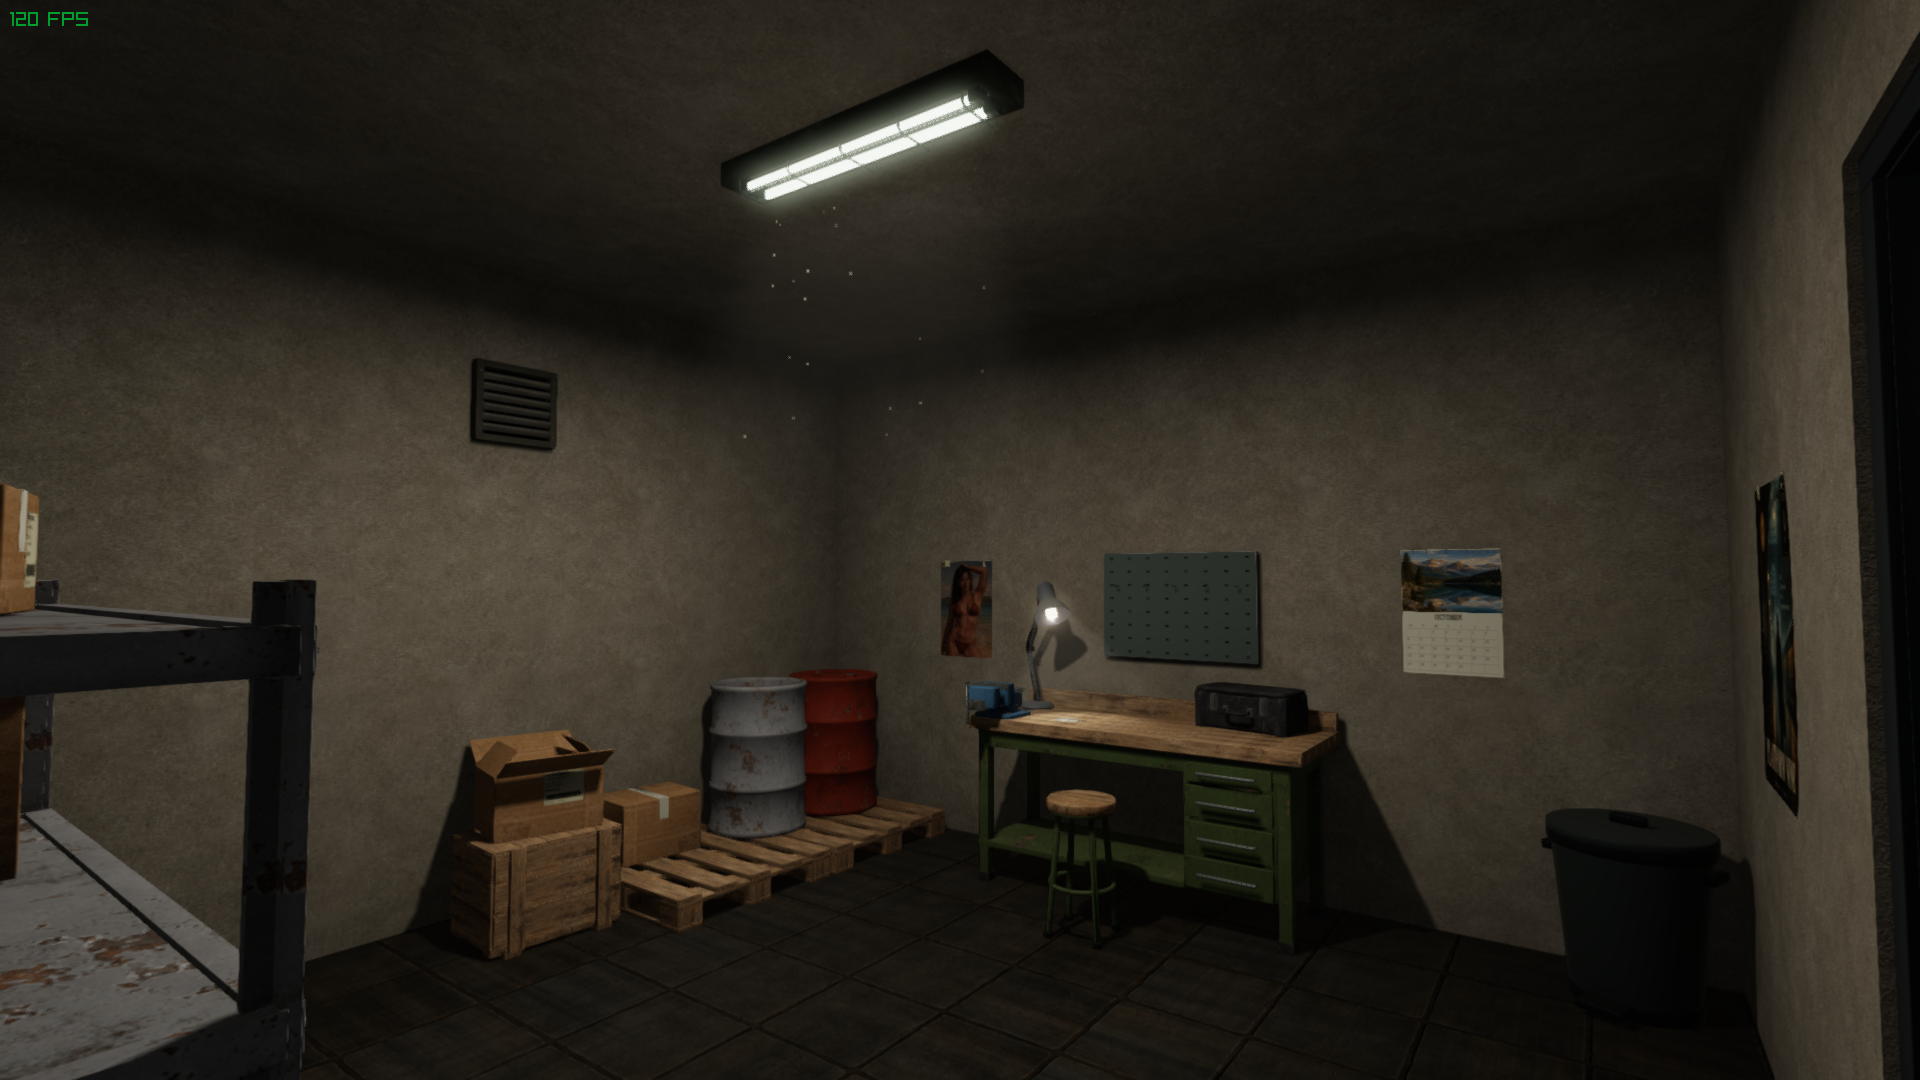
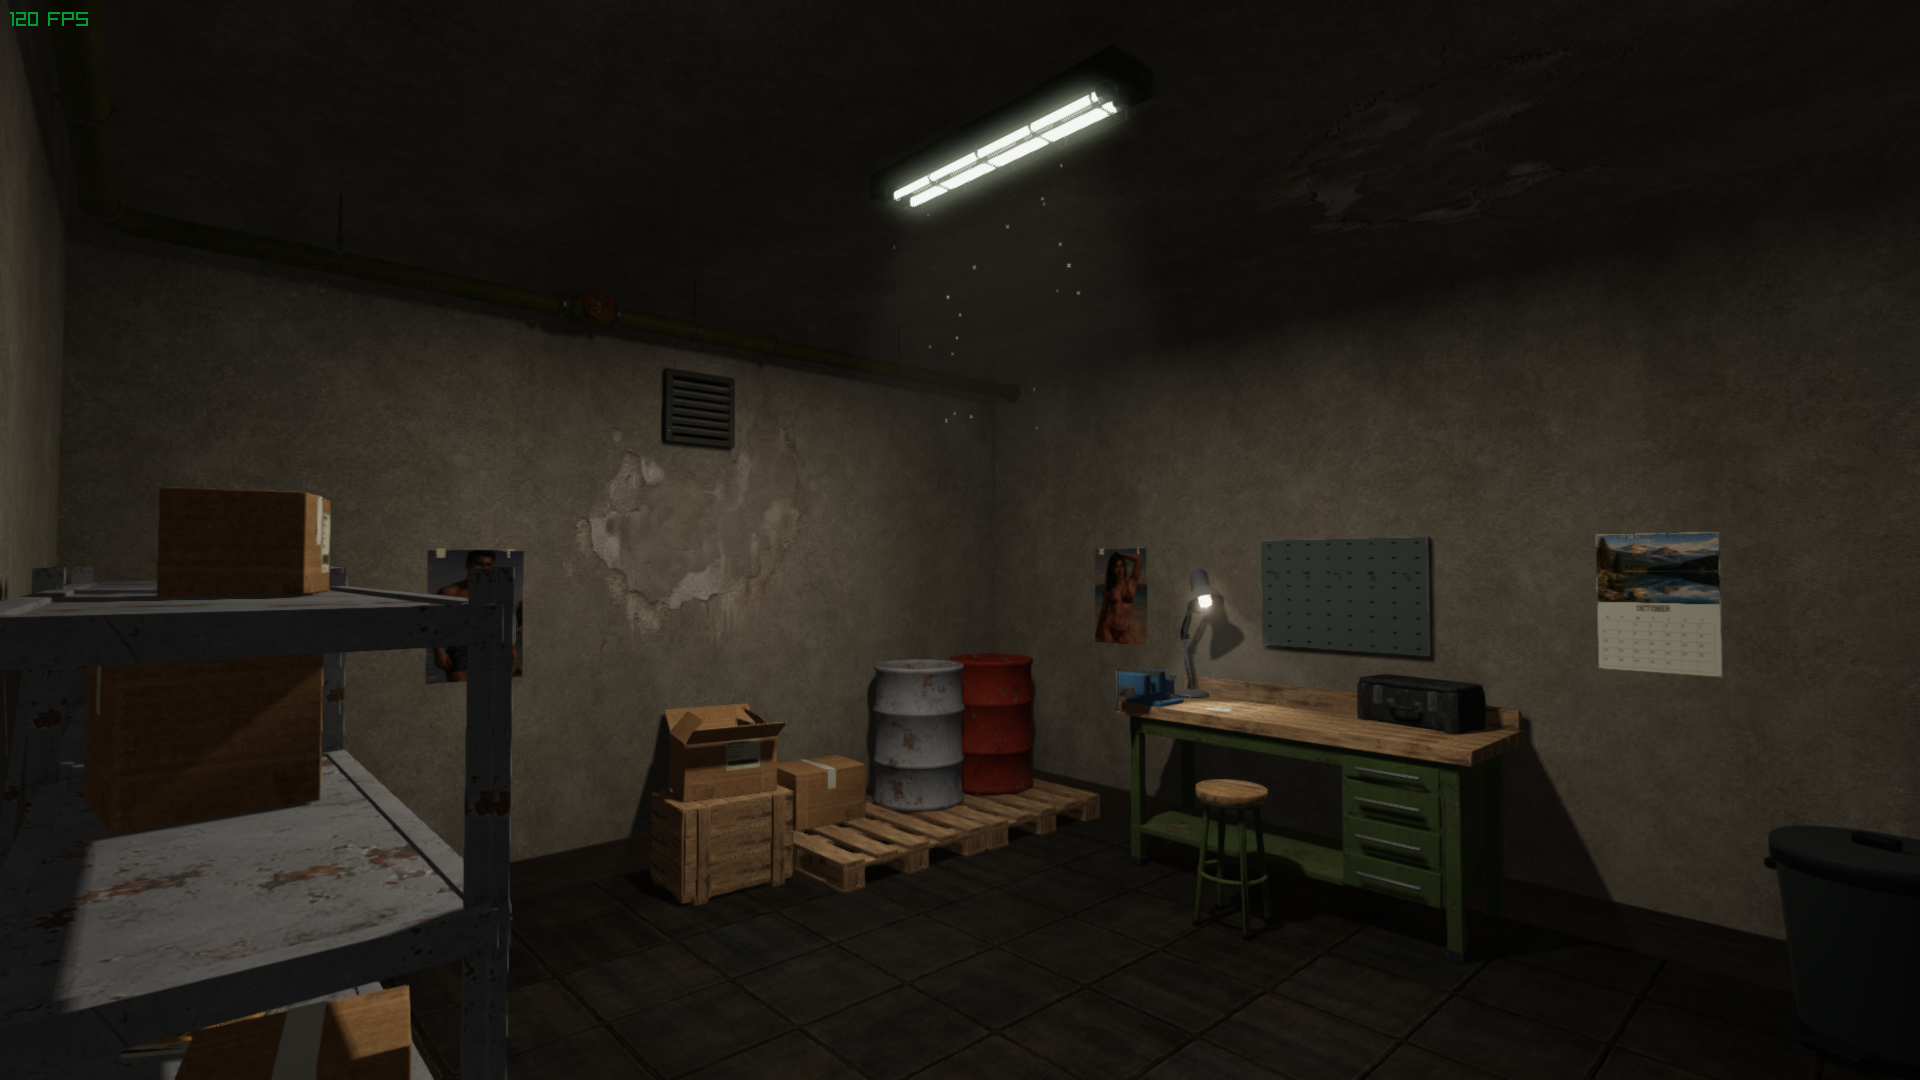
stuff

diff --git a/assets/images/decals/concrete/README.md b/assets/images/decals/concrete/README.md
@@ -1,0 +1,47 @@
+# Concrete wall decals
+
+Four albedo-only wall decals generated separately with the built-in imagegen
+tool, with no CLI fallback. The original 1536 x 1024 RGBA PNGs are preserved
+without image postprocessing. Exact prompts are in `generation_prompts.json`.
+
+| Material ID / PNG filename stem | Surface feature |
+| --- | --- |
+| `concrete_decal_branching_cracks` | Broad diagonal fracture network, chipped lips, and smaller tapering branches. |
+| `concrete_decal_spalled_patch` | Shallow missing cement surface, exposed aggregate, and satellite chips. |
+| `concrete_decal_damp_damage` | Downward damp streaks, chalky mineral deposits, and a cracked seepage trace. |
+| `concrete_decal_old_repair` | Irregular troweled cement repair with perimeter fractures and dirt streaks. |
+
+## Placement
+
+The materials are registered in `assets/materials/materials.json`. Select a wall
+surface in the editor, switch to **Layer: Decal**, and choose a material by its
+`concrete_decal_` prefix. Start with white tint, opacity 1, and emissive disabled.
+These are surface decal settings, not presets stored in the material registry.
+
+Start with the full image spanning approximately 3 meters wide by 2 meters tall.
+Adjust decal UV scale and offset to position it; keep the 3:2 aspect ratio unless
+stretching is intentional. The damp streaks should run downward. Use reduced
+opacity or a darker tint if the pale exposed cement/minerals are too prominent
+against the chosen wall. Each image combines multiple details within the
+existing single decal slot; it is not a tileable base-wall texture or an atlas.
+No decals have been placed in saved levels.
+
+The alpha channel leaves the existing wall visible between isolated features.
+The damaged patch interiors are mostly opaque; stains and fine edges have
+partial coverage. No normal/roughness companion maps are included because the
+decal path consumes albedo only. The registry uses anisotropic8x filtering and
+standard rough, nonmetallic defaults.
+
+## Verification
+
+Checked PNG dimensions, RGBA channels, transparent regions, and compositing on
+dark, light, and mid-gray backgrounds. All substantial features end inside the
+canvas. Some perimeter pixels retain alpha 1/255 from generation; these were
+preserved with the original soft alpha rather than thresholded. No rectangular
+background or visible clipped perimeter was observed in the composite previews.
+
+Interactive editor verification is left to the user: check selection in the
+material picker, UV placement, and blending under the room's actual lighting.
+No renderer, topology, cache-invalidation, lightmap source-hash, collision,
+sector-lookup, or physics code changed. CTest is not required for this asset-only
+change.
